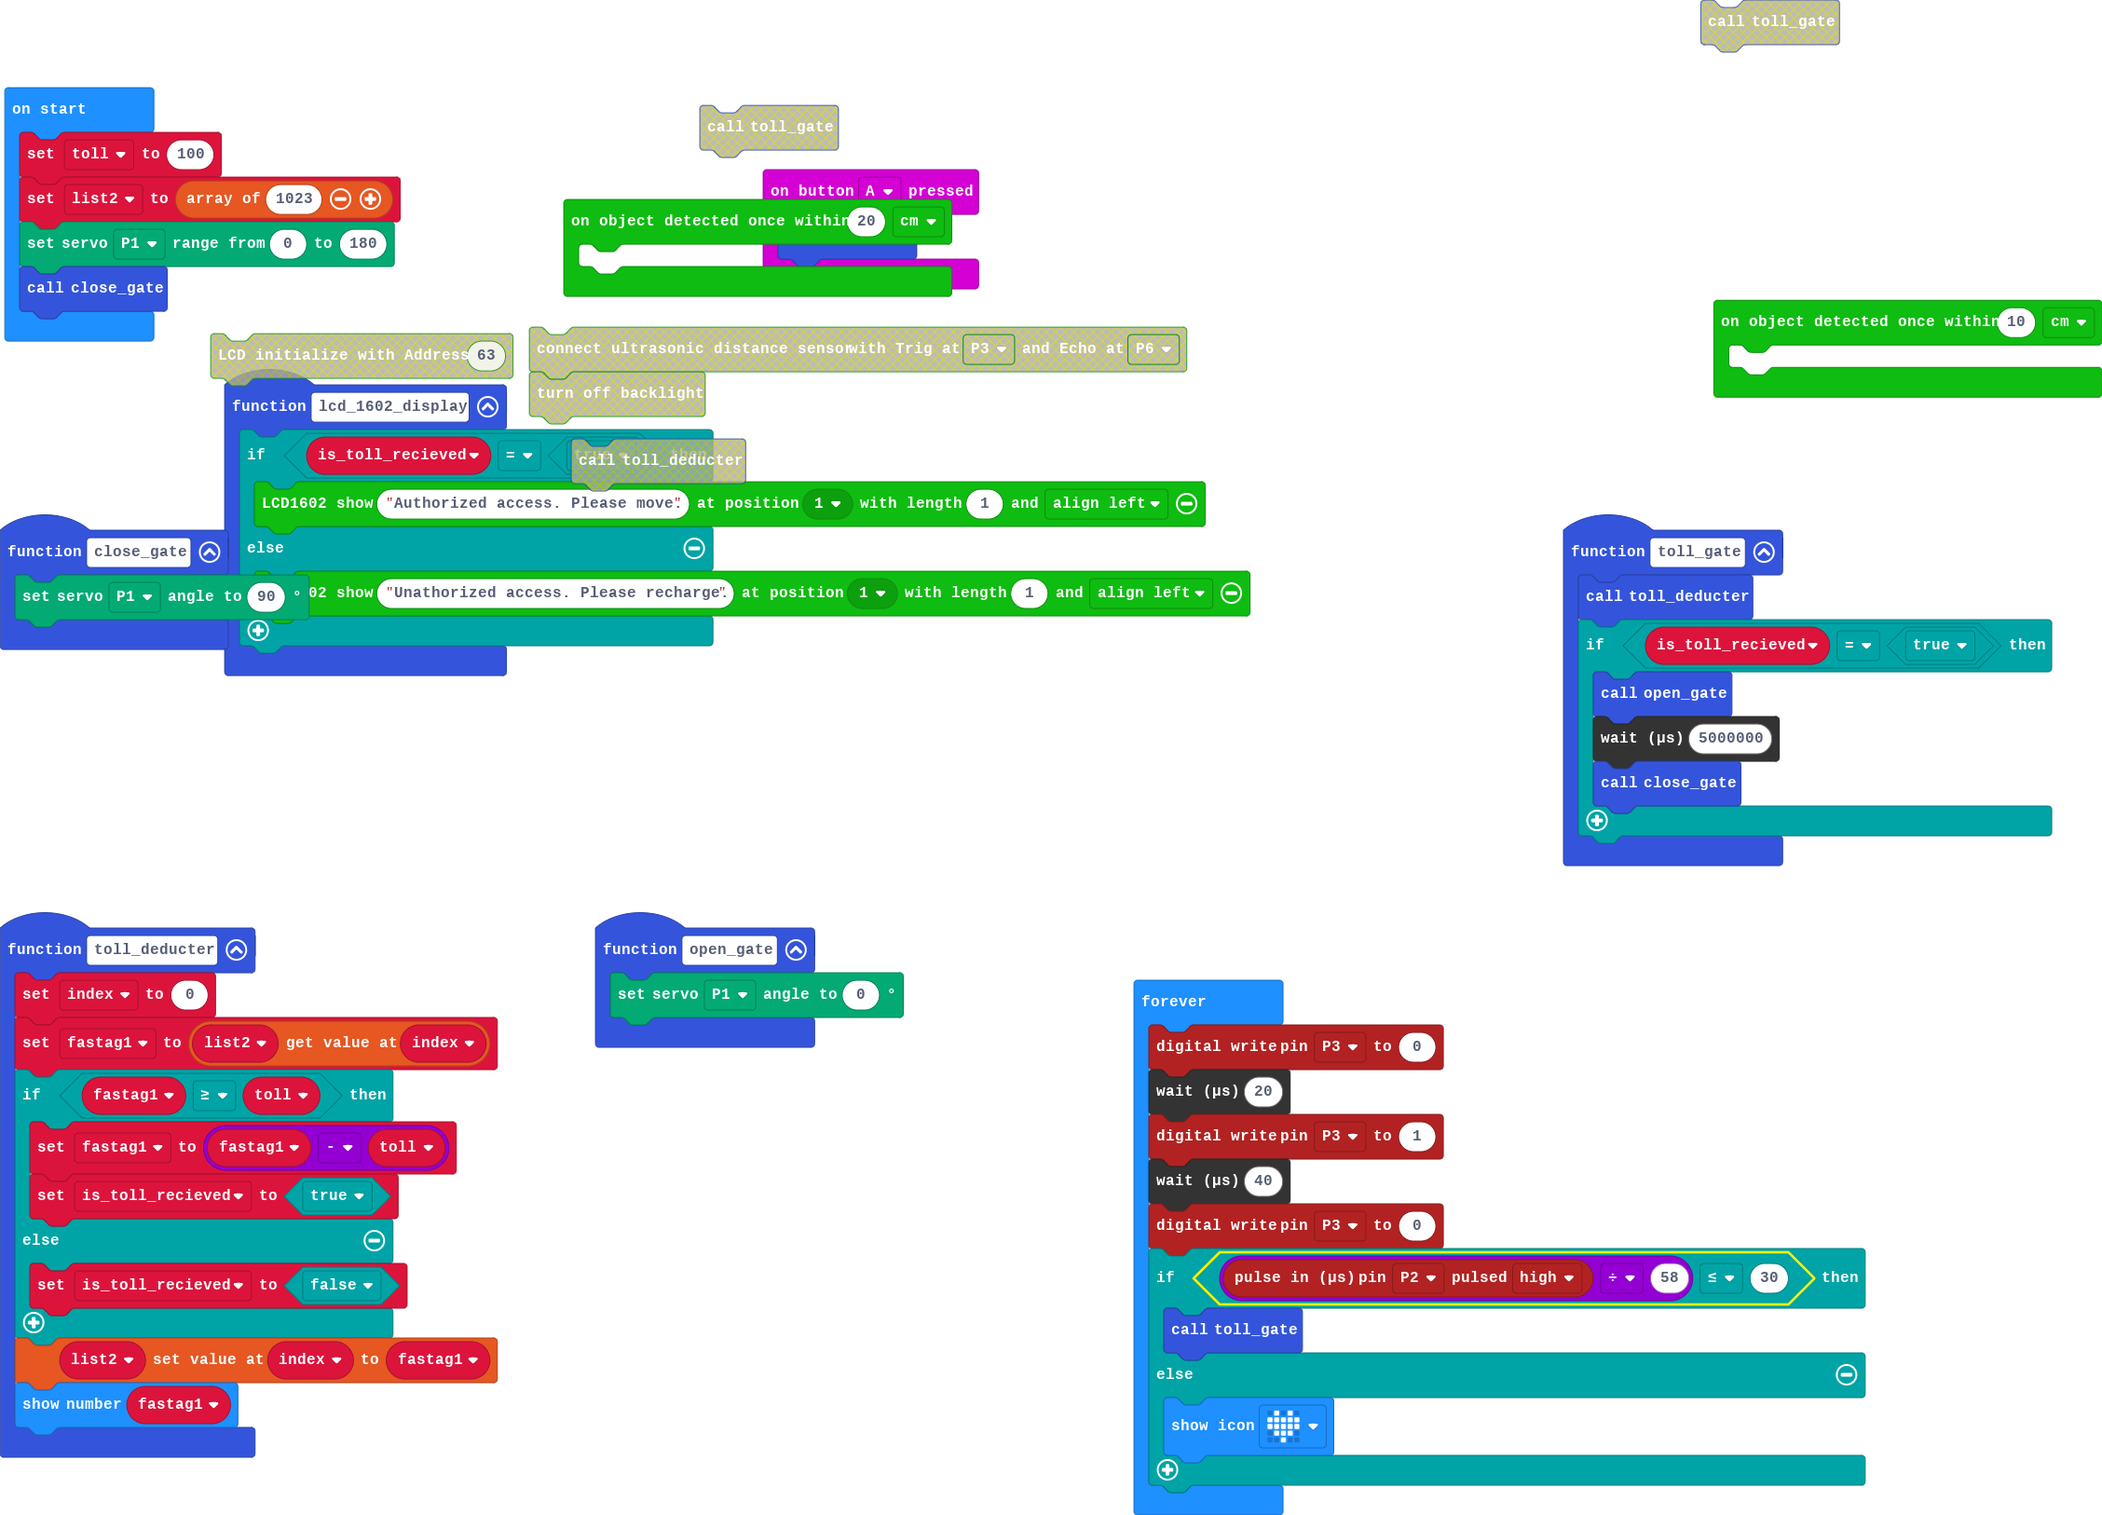
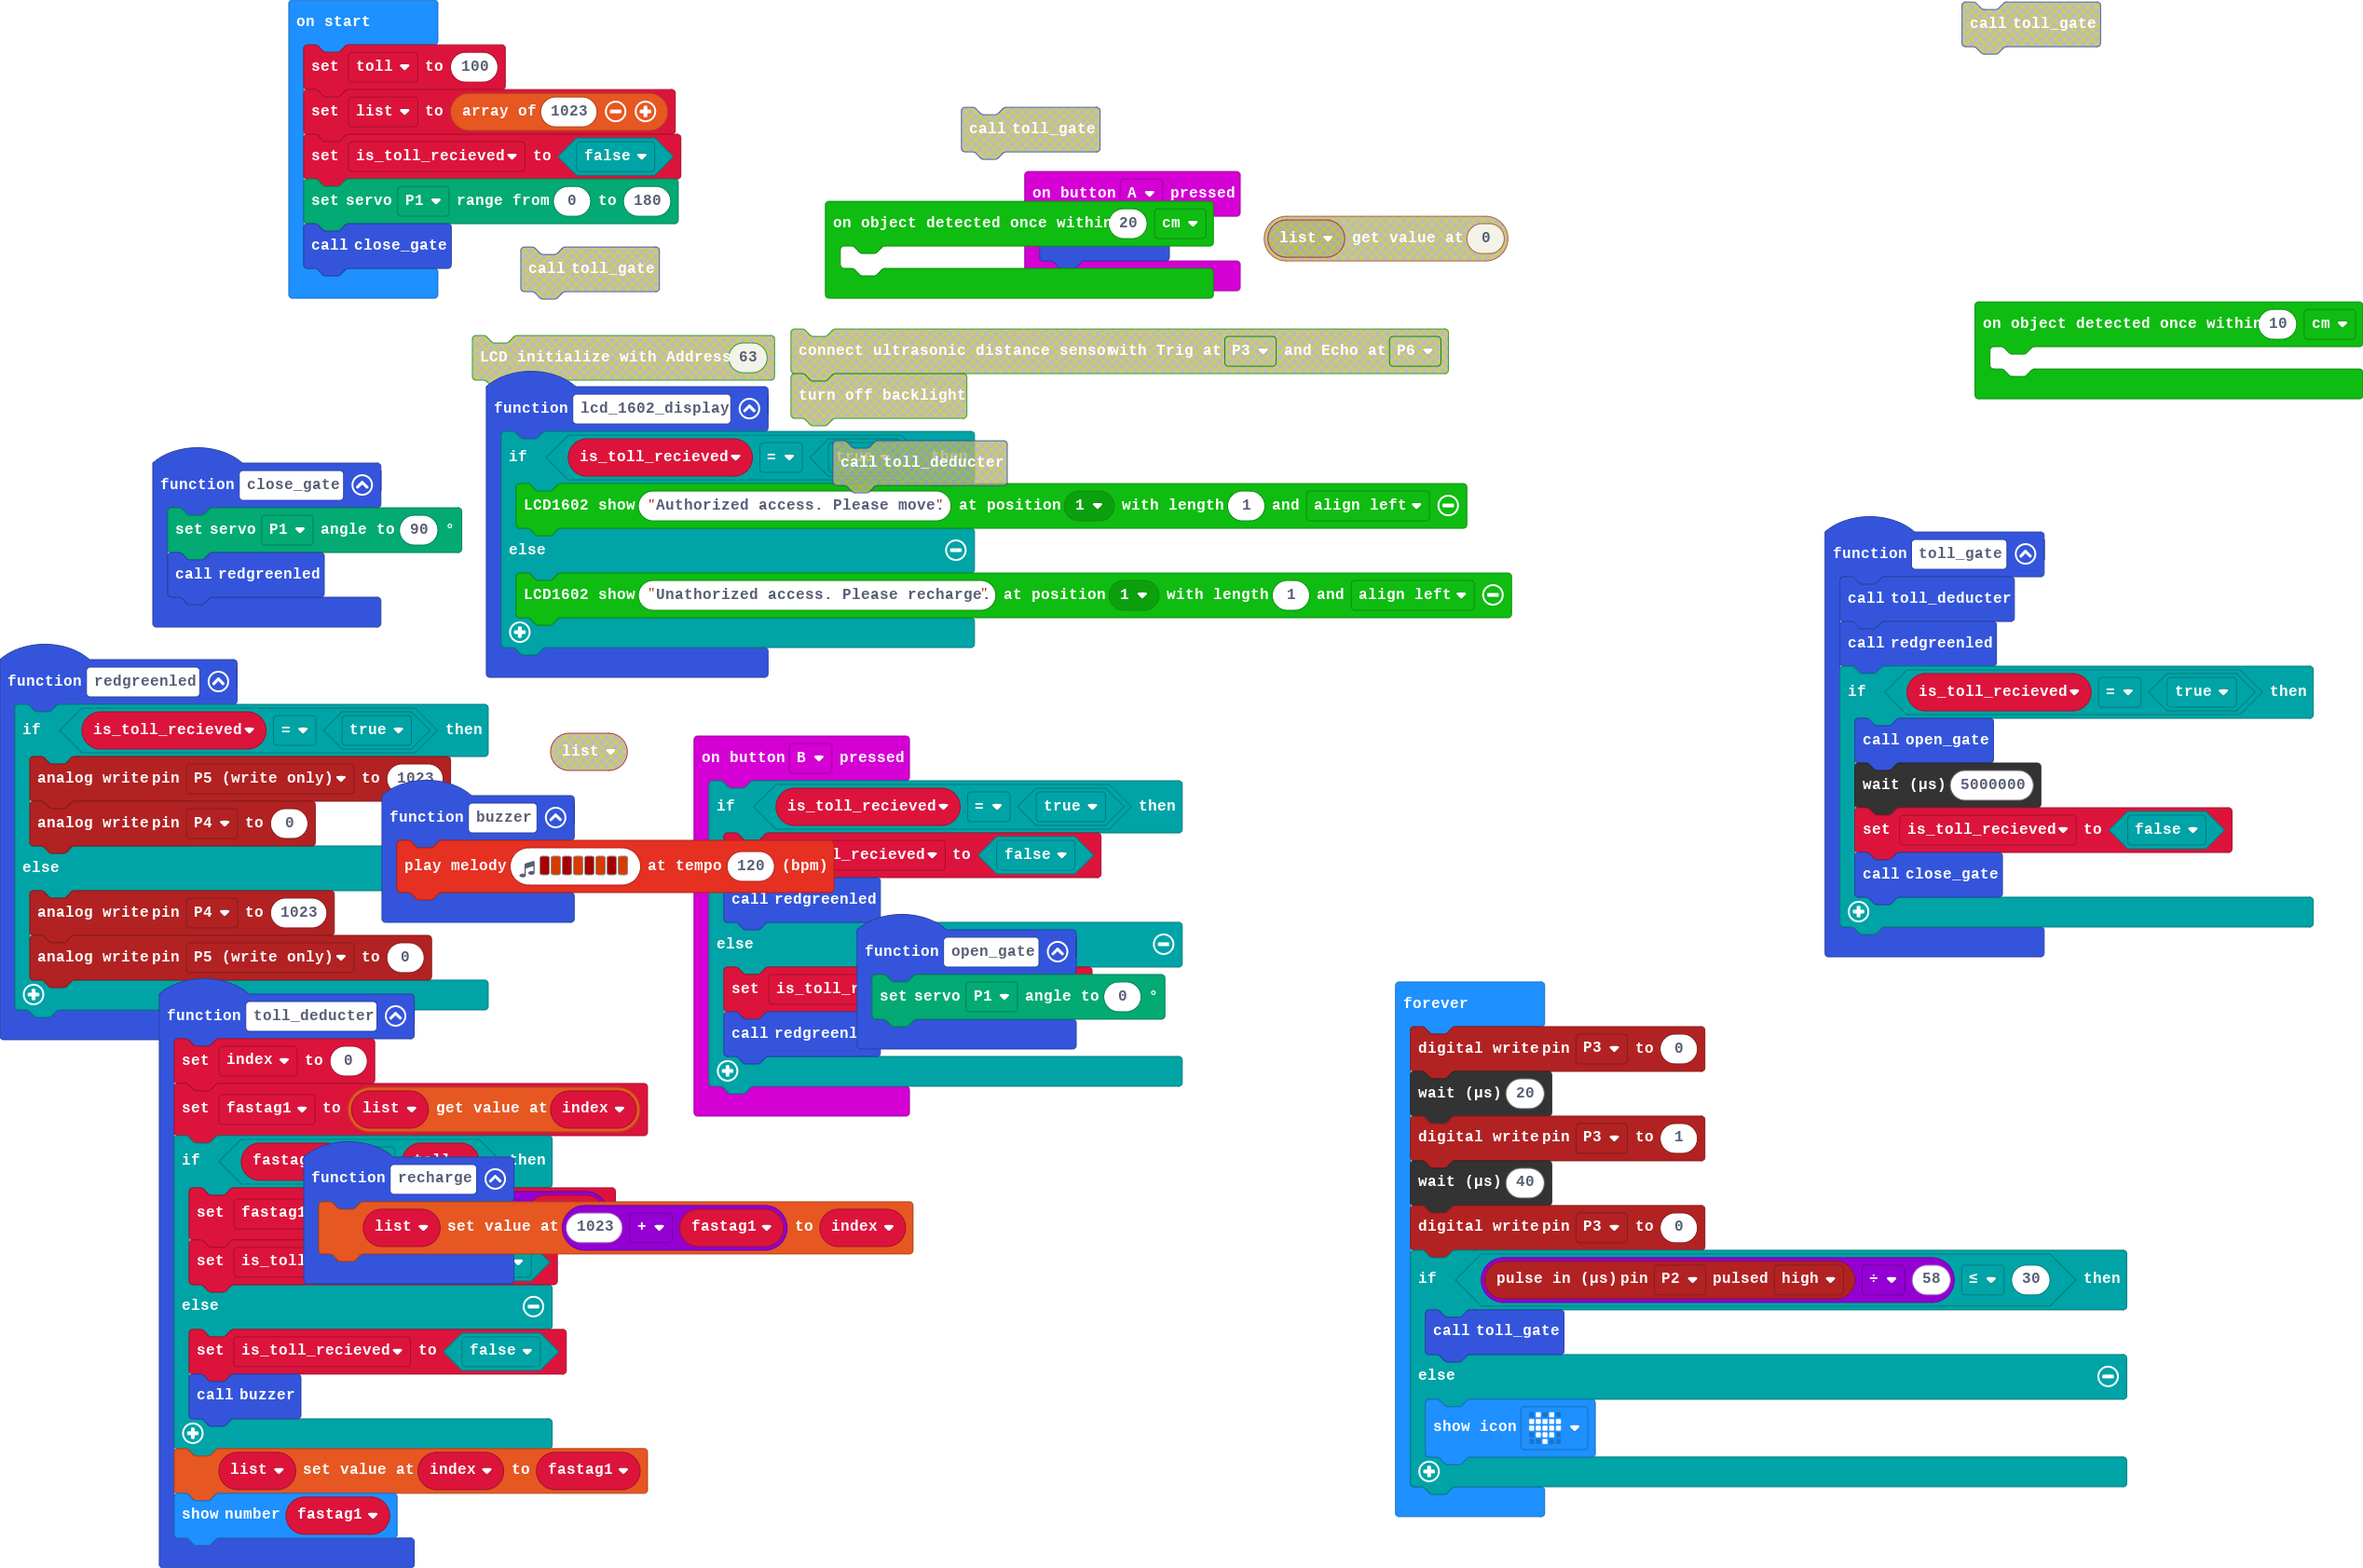
Update main.blocks, main.ts

diff --git a/main.ts b/main.ts
@@ -1,8 +1,10 @@
 function toll_gate () {
     toll_deducter()
+    redgreenled()
     if (is_toll_recieved == true) {
         open_gate()
         control.waitMicros(5000000)
+        is_toll_recieved = false
         close_gate()
     }
 }
@@ -16,37 +18,64 @@ function lcd_1602_display () {
         makerbit.showStringOnLcd1602("Unathorized access. Please recharge.", makerbit.position1602(LcdPosition1602.Pos1), 1, TextOption.AlignLeft)
     }
 }
+function redgreenled () {
+    if (is_toll_recieved == true) {
+        pins.analogWritePin(AnalogPin.P5, 1023)
+        pins.analogWritePin(AnalogPin.P4, 0)
+    } else {
+        pins.analogWritePin(AnalogPin.P4, 1023)
+        pins.analogWritePin(AnalogPin.P5, 0)
+    }
+}
 makerbit.onUltrasonicObjectDetected(10, DistanceUnit.CM, function () {
 	
 })
 function close_gate () {
     servos.P1.setAngle(90)
+    redgreenled()
 }
 input.onButtonPressed(Button.A, function () {
-    toll_gate()
+    recharge()
 })
 function toll_deducter () {
     index = 0
-    fastag1 = list2[index]
+    fastag1 = list[index]
     if (fastag1 >= toll) {
         fastag1 = fastag1 - toll
         is_toll_recieved = true
     } else {
         is_toll_recieved = false
+        buzzer()
     }
-    list2[index] = fastag1
+    list[index] = fastag1
     basic.showNumber(fastag1)
 }
+function buzzer () {
+    music.playMelody("C5 B C5 B C5 B C5 B ", 120)
+}
+input.onButtonPressed(Button.B, function () {
+    if (is_toll_recieved == true) {
+        is_toll_recieved = false
+        redgreenled()
+    } else {
+        is_toll_recieved = true
+        redgreenled()
+    }
+})
 function open_gate () {
     servos.P1.setAngle(0)
+}
+function recharge () {
+    list[1023 + fastag1] = index
 }
 let fastag1 = 0
 let index = 0
 let is_toll_recieved = false
-let list2: number[] = []
+let list: number[] = []
 let toll = 0
 toll = 100
-list2 = [1023]
+list = [1023]
+is_toll_recieved = false
 servos.P1.setRange(0, 180)
 close_gate()
 basic.forever(function () {
